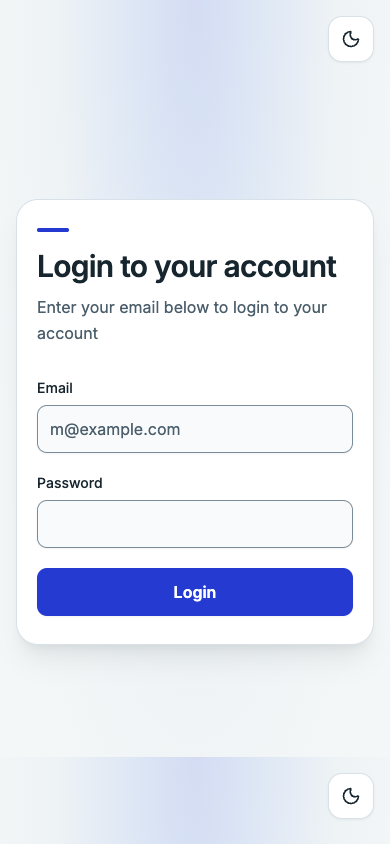
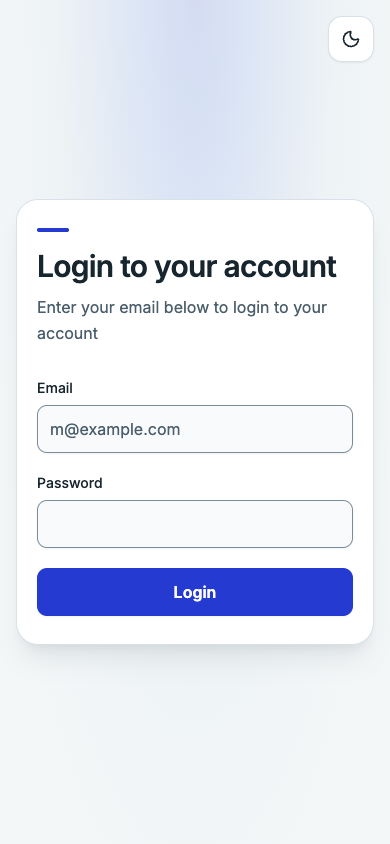
docs(auth): refine sign-in verification evidence

Changed region(s): [[0.4, 0.8934, 0.6154, 1.0], [0.8615, 0.9242, 0.9231, 0.955]]

diff --git a/docs/evidence/issue-109/README.md b/docs/evidence/issue-109/README.md
@@ -5,10 +5,10 @@ The local preview ran at `http://127.0.0.1:3509/`. The baseline was `851ec67c4a3
 | State | Desktop | Phone |
 | --- | --- | --- |
 | Before | [Light](before-desktop.png) | [Light](before-phone.png) |
-| After | [Light](desktop-light.png), [dark](desktop-dark.png) | [Light](phone-light.png), [dark with invalid credentials](phone-dark-error.png) |
+| After | [Light](desktop-light.png), [dark](desktop-dark.png) | [Light](phone-light.png), [dark](phone-dark.png), [dark with invalid credentials](phone-dark-error.png) |
 
-Chromium verified the split or stacked layout at 1,440, 1,024, 768, 390, and 320 CSS pixels. It checked horizontal overflow, keyboard focus, and theme persistence after reload.
+Chromium verified the split or stacked layout at 1,440, 1,024, 768, 390, and 320 CSS pixels. It checked horizontal overflow, keyboard focus, and theme persistence after reload. The before screenshot on mobile shows a 390 × 844 viewport on the baseline production build.
 
 Blank and malformed credentials triggered browser validation without an auth request. While the first auth request was held, pressing Enter again sent no duplicate request. The failed attempt kept focus on the password field. A retry with the disposable account opened **Travel Packages**, and the session survived reload. [Required-field focus](phone-dark-required.png) · [Pending state with masked inputs](phone-dark-pending.png)
 
-The production build, TypeScript, scoped ESLint, and 32 package/auth tests passed. The full suite reported 721 passes and the same 13 quotation-save test failures on both commits. The run stopped the local servers and removed the disposable Convex database, account, and signing keys.
+The production build, TypeScript, scoped ESLint, and 32 package/auth tests passed. The full suite reported 721 passes and the same 13 quotation-save test failures on both commits. The run stopped the local servers and removed the disposable Convex database, account, and signing keys. [Browser measurements and command results](verification.json)
